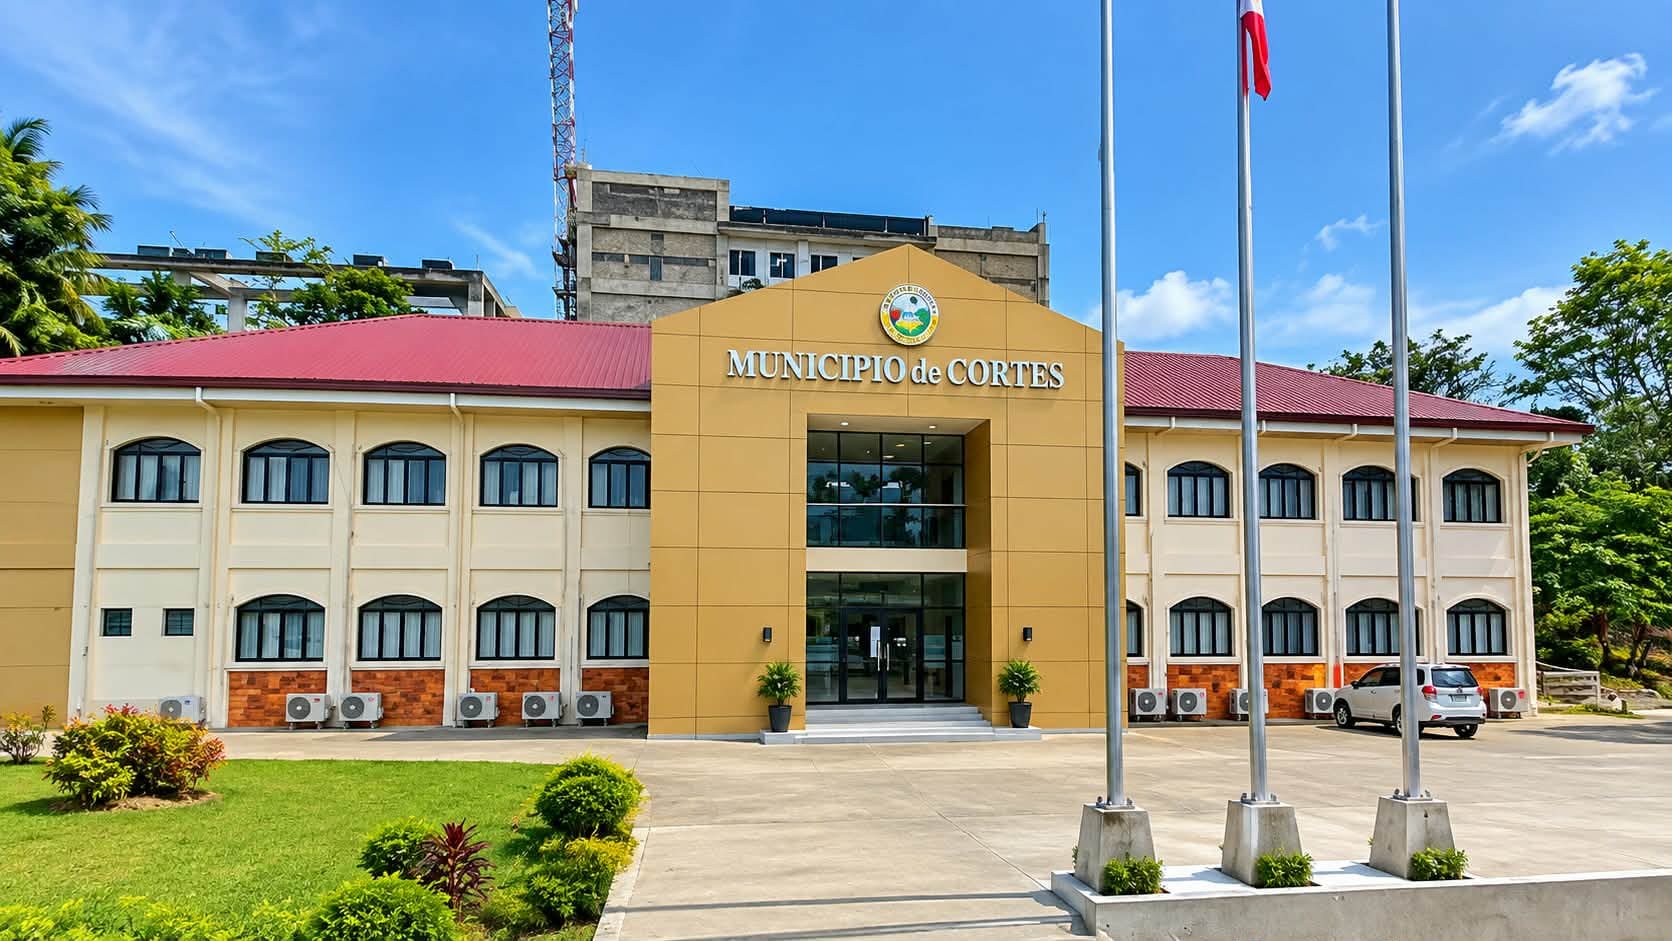
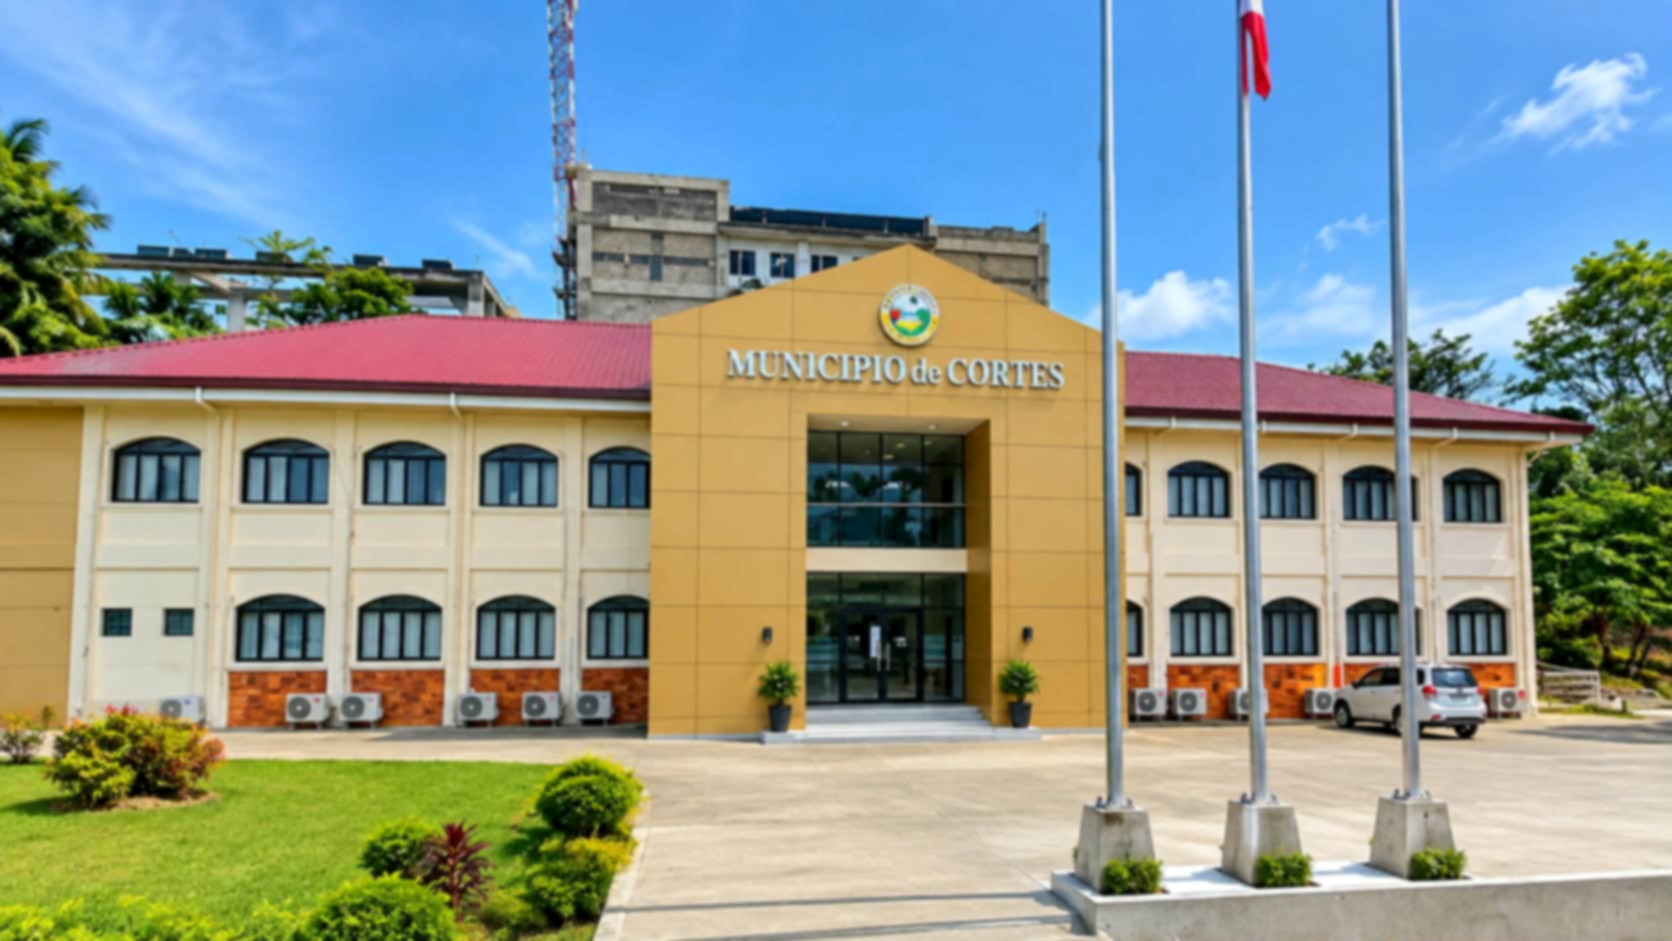
Add files via upload

diff --git a/index.html b/index.html
@@ -9,11 +9,11 @@
     <style>
       html { scroll-behavior:smooth; }
       body { min-height:100vh; background:url('images/cortes-bg-blur.png') center center / cover fixed no-repeat; position:relative; }
-      body::before { content:""; position:fixed; inset:0; background:rgba(5,20,40,.14); pointer-events:none; z-index:-1; }
+      body::before { content:""; position:fixed; inset:0; background:rgba(0,0,0,.16); pointer-events:none; z-index:-1; }
       .glass { background:rgba(255,255,255,.82); backdrop-filter:blur(14px); }
       .hero-bg { position:relative; background:url('images/cortes-bg-blur.png') center center / cover no-repeat; }
       #faq { background:rgba(255,255,255,.94) !important; backdrop-filter:blur(3px); }
-      #portalPage { background:rgba(15,23,42,.12) !important; }
+      #portalPage { background:rgba(15,23,42,.08) !important; }
       .chat-scroll { max-height:360px; overflow-y:auto; }
       @media (min-height:800px) { .auth-shell { min-height:calc(100vh - 7rem); } }
     </style>

diff --git a/admin.html b/admin.html
@@ -16,7 +16,7 @@
             content:"";
             position:fixed;
             inset:0;
-            background:rgba(2,10,24,.30);
+            background:rgba(0,0,0,.18);
             pointer-events:none;
             z-index:0;
         }
